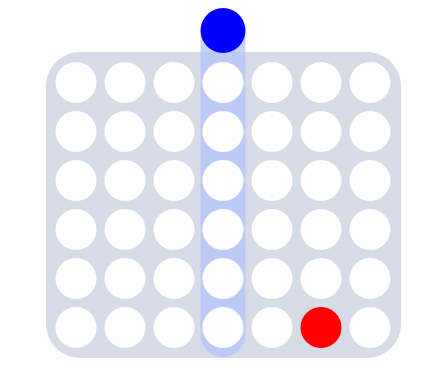
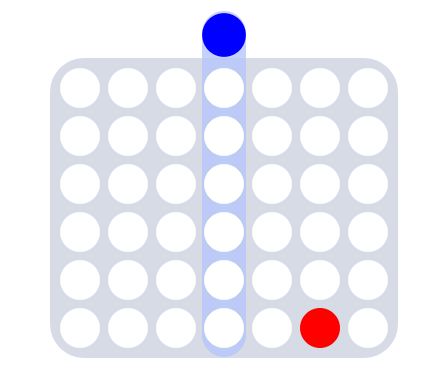
four: size the hopper for where the piece GOES, not where it sits
The gate found the waiting piece crossing under the case on its first run,
and it was right: HOPPER_CY = SAFE_Y0 + HOLE_R put the top of the disc
exactly ON the bezel line, and then the idle bob lifted it 5px further and
the hand-off's ease_out_back overshot another 2. Up to 5px of the cue that
carries whose turn it is - the one brought back precisely because it is the
stronger cue - spent its life under plastic.

I TOOK NONE OF THE THREE FIXES the gate listed, because none of them was the
bug. Moving the piece down costs the slab, shrinking the bob costs the only
moving thing on a still screen, dropping the overshoot costs the balloon
that marks the instant the turn changes - and all three exist because the
CONSTRAINT was written against the piece's RESTING extent. Re-solve it
against the piece's MAXIMUM extent and the three animation decisions all
survive untouched:

  piece bottom = SAFE_Y0 + 2*HOLE_R + MAX_RISE  <=  slab top

which gives CELL <= 48.4, so CELL is 48 rather than 49. The bob still rises
5px, the pop still overshoots to 1.10, nothing goes under the case, and what
it cost is half a pixel of hole radius and seven pixels of board width. That
is the cheapest of the four things it could have cost, and it is only
available because the error was in the arithmetic rather than in the taste.

This is the same shape as the palette's two bugs today - a box sized for
where a thing is rather than for where it goes - which is why the durable
[…]

diff --git a/devices/rp2350-amoled-1.8/emulator/wasm/tests/feature-four.ts b/devices/rp2350-amoled-1.8/emulator/wasm/tests/feature-four.ts
@@ -109,18 +109,25 @@ const BEZEL = 10;                       // gfx.h PANEL_BEZEL_MARGIN_PX
 const SAFE_X0 = BEZEL, SAFE_X1 = LAND_W - BEZEL;
 const SAFE_Y0 = BEZEL, SAFE_Y1 = LAND_H - BEZEL;
 const SAFE_W = SAFE_X1 - SAFE_X0, SAFE_H = SAFE_Y1 - SAFE_Y0;
-// Square cells: six rows plus a hopper tall enough for a whole waiting piece
-// pin CELL at 49 inside the visible canvas. Derived the way four.c derives
-// it rather than written down, so one edit to the bezel moves both.
-const CELL = 49;
+// Square cells: six rows, plus a hopper tall enough for everywhere the
+// waiting piece ever GOES (its bob and its hand-off overshoot, not just
+// where it rests), pin CELL at 48 inside the visible canvas. Derived the way
+// four.c derives it rather than written down, so one edit to the bezel moves
+// both - and four.c now carries a _Static_assert on the same constraint, so
+// a change that breaks it is a build error rather than something this file
+// discovers.
+const CELL = 48;
 const SLAB_PAD = 6;
 const BOARD_W = COLS * CELL;
 const BOARD_X0 = SAFE_X0 + Math.floor((SAFE_W - BOARD_W) / 2);
 const BOARD_Y0 = SAFE_Y1 - SLAB_PAD - ROWS * CELL;
 const HOLE_R = CELL / 2 - 4;
 const GHOST_STROKE = HOLE_R / 3;
-// The waiting piece, back above the board after a round as an arrow.
-const HOPPER_CY = SAFE_Y0 + HOLE_R;
+// The waiting piece's resting centre. Sized so its HIGHEST ink - 5px of bob
+// above the resting top - lands exactly on the visible boundary, which is
+// what tools/gate/run.ts caught it not doing.
+const BOB_RISE_PX = 5;
+const HOPPER_CY = SAFE_Y0 + HOLE_R + BOB_RISE_PX;
 const RELEASE_GRACE_MS = 300;
 const HANDOFF_MS = 420;
 const CELEBRATE_SKIP_MS = 1200;

diff --git a/devices/rp2350-amoled-1.8/emulator/wasm/tests/repro-touch-dropout-four-drop.ts b/devices/rp2350-amoled-1.8/emulator/wasm/tests/repro-touch-dropout-four-drop.ts
@@ -42,17 +42,25 @@ const APP_FOUR = 3; // g_apps[] = { chrono, sketch("draw"), timer, four }
 
 // Mirrors of four.c's own constants.
 const COLS = 7;
-// The column partition, derived exactly the way four.c derives it: seven
-// columns over the VISIBLE canvas (gfx.h PANEL_BEZEL_MARGIN_PX - the case
-// hides a band along every edge). This file only ever needs a point inside a
-// given column, so nothing here depends on the board layout variant.
+// The column partition, derived exactly the way four.c derives it: square
+// cells, centred in the VISIBLE canvas (gfx.h PANEL_BEZEL_MARGIN_PX - the
+// case hides a band along every edge).
+//
+// This drifted once and the drift is worth recording, because it failed in
+// the most misleading way available: when four.c went from a full-width
+// 61px pitch to a square 48px one, this file kept the old derivation, so
+// every touch it aimed at "column c" landed in a different column and the
+// test reported 76% of slides "landing elsewhere" - which reads exactly
+// like a gesture bug in the firmware and was a stale constant in the test.
+// Deriving it the same way the app does, rather than copying the numbers
+// out, is what stops that: a change to CELL or to the bezel moves both.
 const BEZEL = 10;
 const LAND_W = PANEL_H;
 const SAFE_X0 = BEZEL;
 const SAFE_W = LAND_W - 2 * BEZEL;
-const CELL = Math.floor(SAFE_W / COLS);
+const CELL = 48;
 const BOARD_X0 = SAFE_X0 + Math.floor((SAFE_W - COLS * CELL) / 2);
-const RELEASE_GRACE_MS = 300;
+const RELEASE_GRACE_MS = 300;  // four.c's own, see its header section 2
 const colX = (c: number) => BOARD_X0 + Math.floor(CELL / 2) + c * CELL;
 
 let passCount = 0;

diff --git a/devices/rp2350-amoled-1.8/tools/gate/known.ts b/devices/rp2350-amoled-1.8/tools/gate/known.ts
@@ -34,21 +34,6 @@ export interface KnownFinding {
 }
 
 export const KNOWN: KnownFinding[] = [
-  {
-    rule: "pushed-or-invisible",
-    match: /^draw\/hold .*: \d+ pixels changed outside/,
-    found: "2026-08-15, by this gate, on its first run",
-    what:
-      "opening the sketchpad's palette whitens the framebuffer's outermost columns (x=0..5, and " +
-      "x=366..367) and then pushes only (6,4) 360x438. Anything already drawn in those six columns " +
-      "is erased in memory and never erased on the panel, so on hardware the old ink stays under " +
-      "the palette. Reproduce: draw anywhere near the left edge, then long-press to open the palette.",
-    why:
-      "the fix is in firmware/apps/sketch.c, which another agent is editing right now; a second " +
-      "hand in that file today would cost more than the bug does. It is the same shape as the " +
-      "gutter residue this app has already been fixed for once.",
-    decides: "whoever owns sketch.c next",
-  },
 ];
 
 export interface Partition {

diff --git a/devices/rp2350-amoled-1.8/firmware/apps/four.c b/devices/rp2350-amoled-1.8/firmware/apps/four.c
@@ -360,56 +360,97 @@
 #define SAFE_W  (SAFE_X1 - SAFE_X0)
 #define SAFE_H  (SAFE_Y1 - SAFE_Y0)
 
-/* THE CELL IS SQUARE, AND 49 IS THE LARGEST ONE THAT FITS.
+/* THE CELL IS SQUARE, AND 48 IS THE LARGEST ONE THAT FITS.
  *
  * Solved rather than chosen. Six rows of CELL, plus a hopper tall enough to
- * hold a whole waiting piece above the slab, has to fit inside SAFE_H:
+ * hold the waiting piece above the slab, has to fit inside SAFE_H.
  *
- *   piece bottom  = SAFE_Y0 + 2*HOLE_R  = SAFE_Y0 + CELL - 8
- *   slab top      = SAFE_Y1 - SLAB_PAD - ROWS*CELL - SLAB_PAD
+ * AND "THE WAITING PIECE" MEANS EVERYWHERE IT EVER GOES, NOT WHERE IT SITS.
+ * That distinction is the whole correction in this pass and it was worth a
+ * bug: the constraint used to be written against the piece's RESTING extent,
+ * which put the top of the disc exactly on the bezel line - and then the
+ * idle bob lifted it 5px further and the hand-off's ease_out_back overshot
+ * another 2, so up to 5px of the cue that carries whose turn it is spent its
+ * life under the plastic. Found by tools/gate/run.ts on its first run; the
+ * same shape as the palette's own two bugs today, a box sized for where a
+ * thing is rather than for where it goes.
  *
- * and the first must clear the second. At a 10px bezel that solves to
- * CELL <= 49.1, so CELL is 49: holes of r=20.5, an 8px gutter in BOTH
- * directions, a 343x294 board, and 42px of paper either side.
+ *   piece top    = SAFE_Y0                       (by construction, below)
+ *   piece bottom = SAFE_Y0 + 2*HOLE_R + MAX_RISE
+ *   slab top     = SAFE_Y1 - 2*SLAB_PAD - ROWS*CELL
+ *
+ * and the second must clear the third. At a 10px bezel that solves to
+ * CELL <= 48.4, so CELL is 48: holes of r=20, an 8px gutter in BOTH
+ * directions, a 336x288 board, 46px of paper either side.
+ *
+ * WHAT THIS COST, and it is deliberately the cheapest of the four things it
+ * could have cost. The three obvious fixes each spend something that was
+ * decided on purpose: moving the piece down alone puts it into the slab;
+ * shrinking the bob weakens the only moving thing on a still screen;
+ * dropping the overshoot takes the balloon out of the hand-off, which is
+ * what marks the instant the turn changes. Re-solving the cell instead
+ * spends half a pixel of hole radius and seven pixels of board width, and
+ * keeps all three. The bob still rises 5px, the pop still overshoots to
+ * 1.10, and nothing goes under the case.
+ *
+ * The _Static_assert below is the durable half of the fix: the constraint is
+ * now checked by the compiler, so changing CELL, the bob, or the bezel
+ * without re-solving is a build error rather than a thing a photograph
+ * catches three days later.
  *
  * WHY NOT FULL WIDTH, WHICH IS WHAT WAS ASKED FOR. Because with a hopper it
  * buys nothing. Seven columns across the visible width is a 61px pitch, but
  * the hole's radius is capped by the SHORTER pitch - the vertical one, which
- * six rows plus a hopper pin at 49 - so the holes come out at r=20.5 either
- * way. Identical holes. All the extra 12px per column does is push them
- * apart: the gutter goes from 8/8 to 20/8, which is the stretched-grid look
- * the owner would be seeing instead of a board. Full width was his phrasing
- * for "use the screen", and this uses the screen without distorting the one
- * thing on it that has to look regular.
+ * six rows plus a hopper pin here - so the holes come out the same size
+ * either way. Identical holes. All the extra width per column does is push
+ * them apart, 8/8 gutters becoming 20/8, which is a stretched grid rather
+ * than a board. Full width was the owner's phrasing for "use the screen",
+ * and this uses the screen without distorting the one thing on it that has
+ * to look regular.
  *
- * WHAT IT COST, said plainly: 42px of paper down each side, and it is the
- * price of the waiting piece coming back. "la fleche est mega moche. Je
- * pense que tu peux l'enlever et remets la balle au-dessus, quitte a reduire
- * la hauteur." A ball above the board needs a band to sit in; a band costs
- * height; square cells then cost width. He accepted the height explicitly
- * and the width follows from it arithmetically.
- *
- * THE SLAB HUGS THE HOLE GRID, with a 6px rim, and that was the last open
- * question. It was briefly a build variant so that the alternative - the
- * slab stretched to the visible edges with the same holes inside it - could
- * be rendered beside it (preview/four-*-ballwide.png in this file's git
- * history). The narrow one won on the same argument that decided the cell
- * size: the holes are identical either way, so the wide slab spends 12px a
- * column on grey and leaves the holes floating in a field instead of
- * reading as a board. The variant is deleted rather than left behind a
- * define nobody builds, which is how a second code path rots; this
- * paragraph is the part worth keeping.
+ * THE SLAB HUGS THE HOLE GRID, with a 6px rim. That was briefly a build
+ * variant so the alternative could be rendered beside it
+ * (preview/four-*-ballwide.png, in this file's git history); the narrow one
+ * won on the same argument that decided the cell size, and the variant was
+ * deleted rather than left behind a define nobody builds.
  */
-#define CELL      49
+#define CELL      48
 #define SLAB_PAD  6
 #define BOARD_W   (COLS * CELL)
 #define BOARD_X0  (SAFE_X0 + (SAFE_W - BOARD_W) / 2)
 #define BOARD_Y0  (SAFE_Y1 - SLAB_PAD - ROWS * CELL)
 #define HOLE_R    ((float)CELL / 2.0f - 4.0f)
 
-// The waiting piece's resting centre, tucked as high in the hopper as the
-// visible area allows so the band below it is as short as it can be.
-#define HOPPER_CY ((float)SAFE_Y0 + HOLE_R)
+/* How far above its resting TOP the waiting piece ever reaches. Two things
+ * lift it and they never overlap (render_span picks one or the other), so
+ * this is the larger of the two rather than their sum:
+ *
+ *   the idle bob, which floats it up BOB_AMP and back;
+ *   the hand-off pop, whose ease_out_back peaks at ~1.1013 of full size,
+ *   i.e. 0.1013 of the radius of extra ink above the centre.
+ *
+ * At every cell size this board can take, the bob is the larger. The
+ * _Static_assert below says so out loud, so that a future change which makes
+ * the pop the binding one fails the build instead of quietly poking the
+ * piece under the case again. */
+#define POP_PEAK_SCALE 1.1013f
+#define BOB_RISE_PX    5                 /* integer twin of BOB_AMP, for the assert */
+#define POP_RISE       ((POP_PEAK_SCALE - 1.0f) * HOLE_R)
+#define PIECE_MAX_RISE (((float)BOB_RISE_PX > POP_RISE) ? (float)BOB_RISE_PX : POP_RISE)
+
+// The waiting piece's resting centre: low enough that its HIGHEST ink, not
+// its resting top, sits exactly on the visible boundary.
+#define HOPPER_CY ((float)SAFE_Y0 + HOLE_R + PIECE_MAX_RISE)
+
+// The two halves of the geometry above, checked by the compiler.
+_Static_assert(BOB_RISE_PX * 20 >= (CELL - 8), // 0.1013 * HOLE_R < BOB_RISE_PX,
+                                                // i.e. 20*BOB >= 2*0.1013*HOLE_R*10
+               "the hand-off pop now overshoots further than the bob rises, so "
+               "PIECE_MAX_RISE's integer twin below is no longer the binding one");
+_Static_assert(SAFE_Y0 + (CELL - 8) + BOB_RISE_PX <= SAFE_Y1 - 2 * SLAB_PAD - ROWS * CELL,
+               "the waiting piece would overlap the slab, or cross the bezel line: "
+               "re-solve CELL against the piece's MAXIMUM extent, not its resting one "
+               "(see the geometry block above)");
 
 #define SLAB_X0   (BOARD_X0 - SLAB_PAD)
 #define SLAB_X1   (BOARD_X0 + BOARD_W + SLAB_PAD)
@@ -538,7 +579,7 @@
 // otherwise perfectly still screen, so it should read as breathing rather
 // than as drift.
 #define BOB_MS 1300.0f
-#define BOB_AMP 5.0f
+#define BOB_AMP ((float)BOB_RISE_PX)
 #define BOB_STEP_MS 60
 
 // Repaint throttle for animations. Physics is integrated on every tick from
